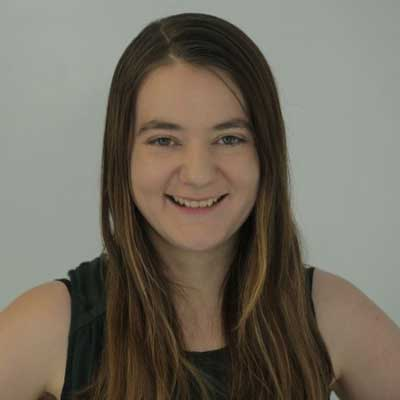
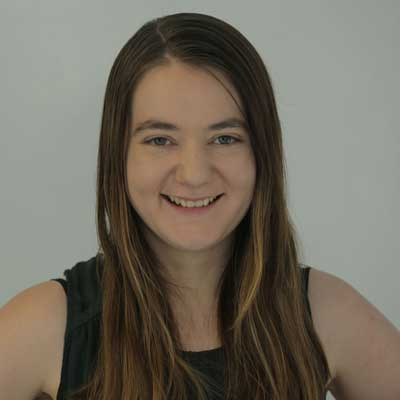
more photos

diff --git a/awards.html b/awards.html
@@ -42,7 +42,7 @@ redirect_from:
           <p>Software Development Manager, FireEye, Inc. </p>
         </li>
         <li>
-          <img src="/assets/awards-2018/dcft.jpg" aria-hidden>
+          <img src="/assets/awards-2018/code/sunitha.jpg" aria-hidden>
           <h3>Sunitha Burri</h3>
           <p>Sr Software Dev Engineer, Oath</p>
         </li>
@@ -102,7 +102,7 @@ redirect_from:
           <p>Back End Engineer, Crowdskout</p>
         </li>
         <li>
-          <img src="/assets/awards-2018/dcft.jpg" aria-hidden>
+          <img src="/assets/awards-2018/code/anya.jpg" aria-hidden>
           <h3>Anya Roltsch</h3>
           <p>Backend Engineer, Tista</p>
         </li>
@@ -234,7 +234,7 @@ redirect_from:
           <p>Senior Content + UX Strategist, ISL</p>
         </li>
         <li>
-          <img src="/assets/awards-2018/dcft.jpg" aria-hidden>
+          <img src="/assets/awards-2018/design/jens.jpg" aria-hidden>
           <h3>Jen Strickland</h3>
           <p>Senior UX Architect & Researcher, LookThink</p>
         </li>
